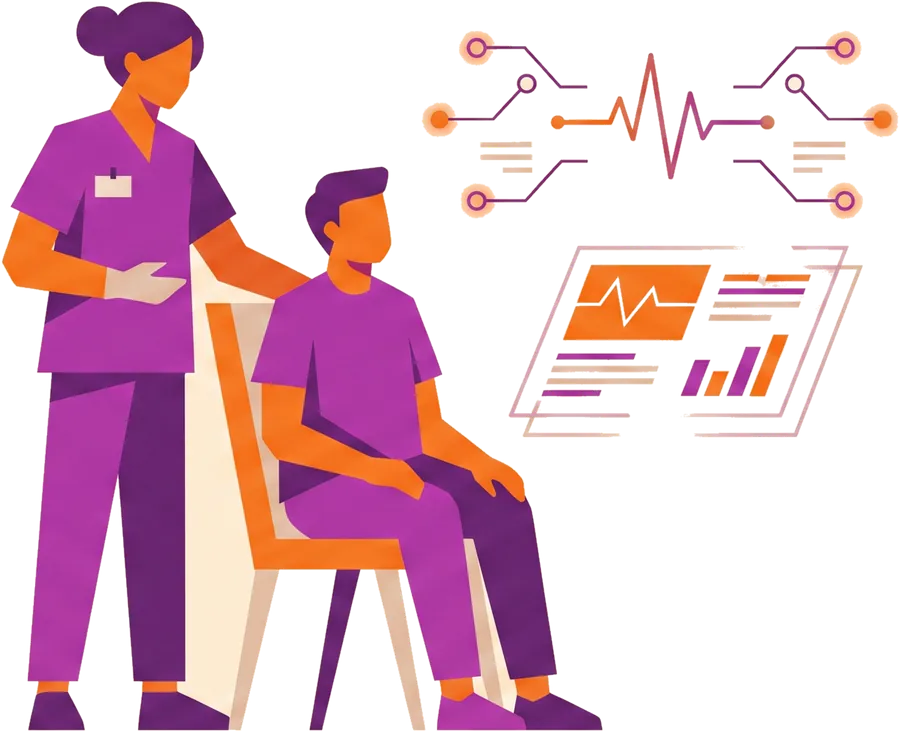
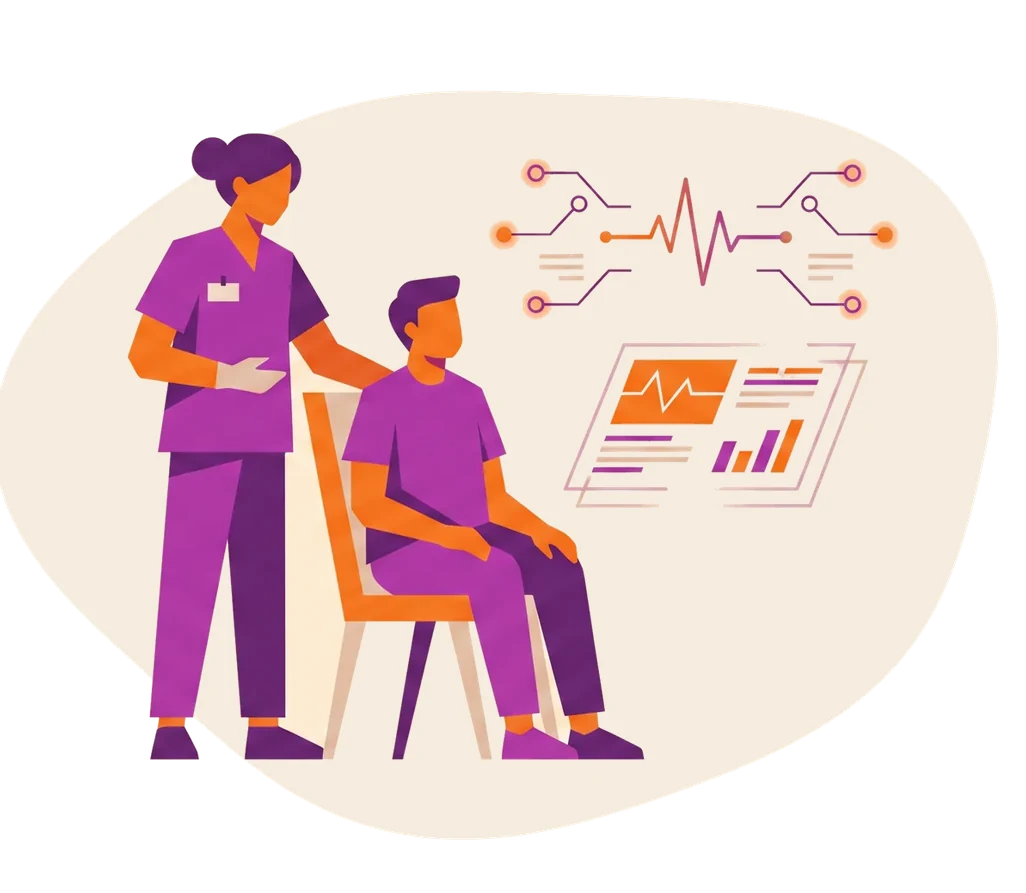
Cartes domaines : tache beige organique sous santé/éducation/environnement (cohérence avec les scènes SVG)

diff --git a/index.html b/index.html
@@ -305,13 +305,13 @@
     <div class="wrap">
       <div class="feat-grid">
         <div class="card" data-reveal data-tilt>
-          <div class="card-media"><img fetchpriority="high" decoding="async" src="assets/dom-sante.webp" alt="Santé" onerror="this.parentNode.style.background='var(--purple-soft)'"/>
+          <div class="card-media"><img fetchpriority="high" decoding="async" src="assets/dom-sante.webp?v=3" alt="Santé" onerror="this.parentNode.style.background='var(--purple-soft)'"/>
             <div class="card-ic"><svg width="24" height="24" viewBox="0 0 24 24" fill="none"><path d="M12 20s-7-4.3-7-9a4 4 0 017-2.6A4 4 0 0119 11c0 4.7-7 9-7 9z" stroke="#A62FBD" stroke-width="1.8" stroke-linejoin="round"/><path d="M7 12h2l1.5-3 1.5 5 1-2h2" stroke="#F97316" stroke-width="1.8" stroke-linecap="round" stroke-linejoin="round"/></svg></div>
           </div>
           <div class="card-body"><h3>Santé & prévention</h3><p>Suivi des maladies chroniques, prévention, aide au diagnostic — sans jamais remplacer le soignant.</p></div>
         </div>
         <div class="card" data-reveal data-tilt style="transition-delay:.06s">
-          <div class="card-media"><img loading="lazy" decoding="async" src="assets/dom-education.webp" alt="Éducation" onerror="this.parentNode.style.background='var(--purple-soft)'"/>
+          <div class="card-media"><img loading="lazy" decoding="async" src="assets/dom-education.webp?v=3" alt="Éducation" onerror="this.parentNode.style.background='var(--purple-soft)'"/>
             <div class="card-ic"><svg width="24" height="24" viewBox="0 0 24 24" fill="none"><path d="M3 7l9-3 9 3-9 3-9-3z" stroke="#A62FBD" stroke-width="1.8" stroke-linejoin="round"/><path d="M7 10v4c0 1.3 2.2 2.5 5 2.5s5-1.2 5-2.5v-4" stroke="#F97316" stroke-width="1.8" stroke-linecap="round" stroke-linejoin="round"/></svg></div>
           </div>
           <div class="card-body"><h3>Éducation & savoir</h3><p>Tuteurs IA, lutte contre le décrochage, accès au savoir pour tous — gratuit là où il le faut.</p></div>
@@ -323,7 +323,7 @@
           <div class="card-body"><h3>Inclusion & social</h3><p>Accessibilité, insertion, lutte contre l'isolement — pensés avec les personnes concernées.</p></div>
         </div>
         <div class="card" data-reveal data-tilt style="transition-delay:.18s">
-          <div class="card-media"><img loading="lazy" decoding="async" src="assets/dom-environnement.webp?v=2" alt="Environnement" onerror="this.parentNode.style.background='var(--purple-soft)'"/>
+          <div class="card-media"><img loading="lazy" decoding="async" src="assets/dom-environnement.webp?v=3" alt="Environnement" onerror="this.parentNode.style.background='var(--purple-soft)'"/>
             <div class="card-ic"><svg width="24" height="24" viewBox="0 0 24 24" fill="none"><path d="M5 20c0-8 6-13 14-13 0 8-6 13-14 13z" stroke="#A62FBD" stroke-width="1.8" stroke-linejoin="round"/><path d="M9 16c2-3 5-5 8-6" stroke="#F97316" stroke-width="1.8" stroke-linecap="round"/></svg></div>
           </div>
           <div class="card-body"><h3>Environnement & climat</h3><p>Sobriété énergétique et données environnementales, à l'échelle du territoire.</p></div>
